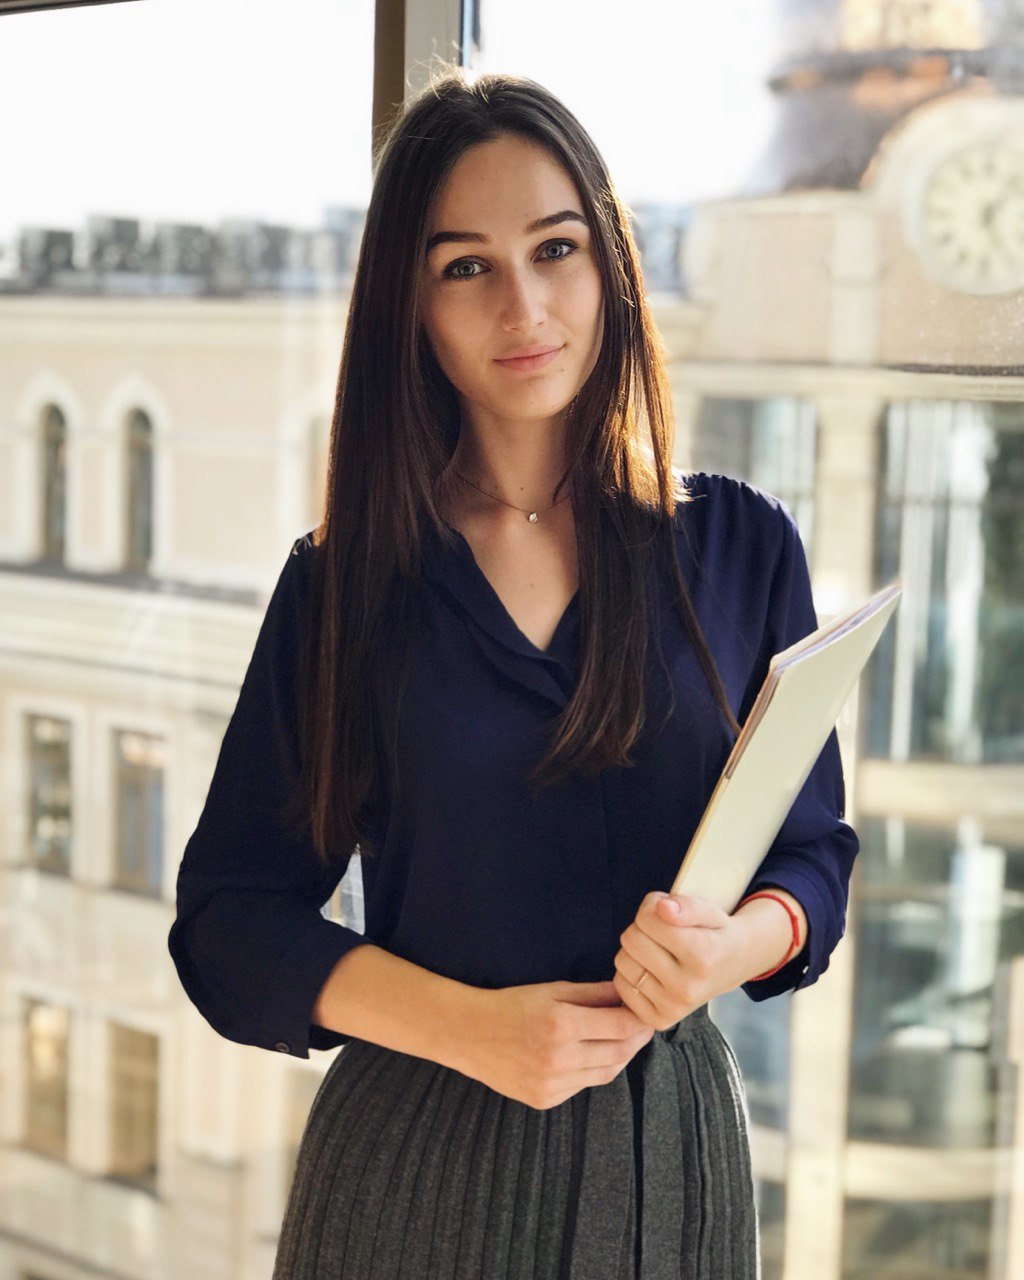
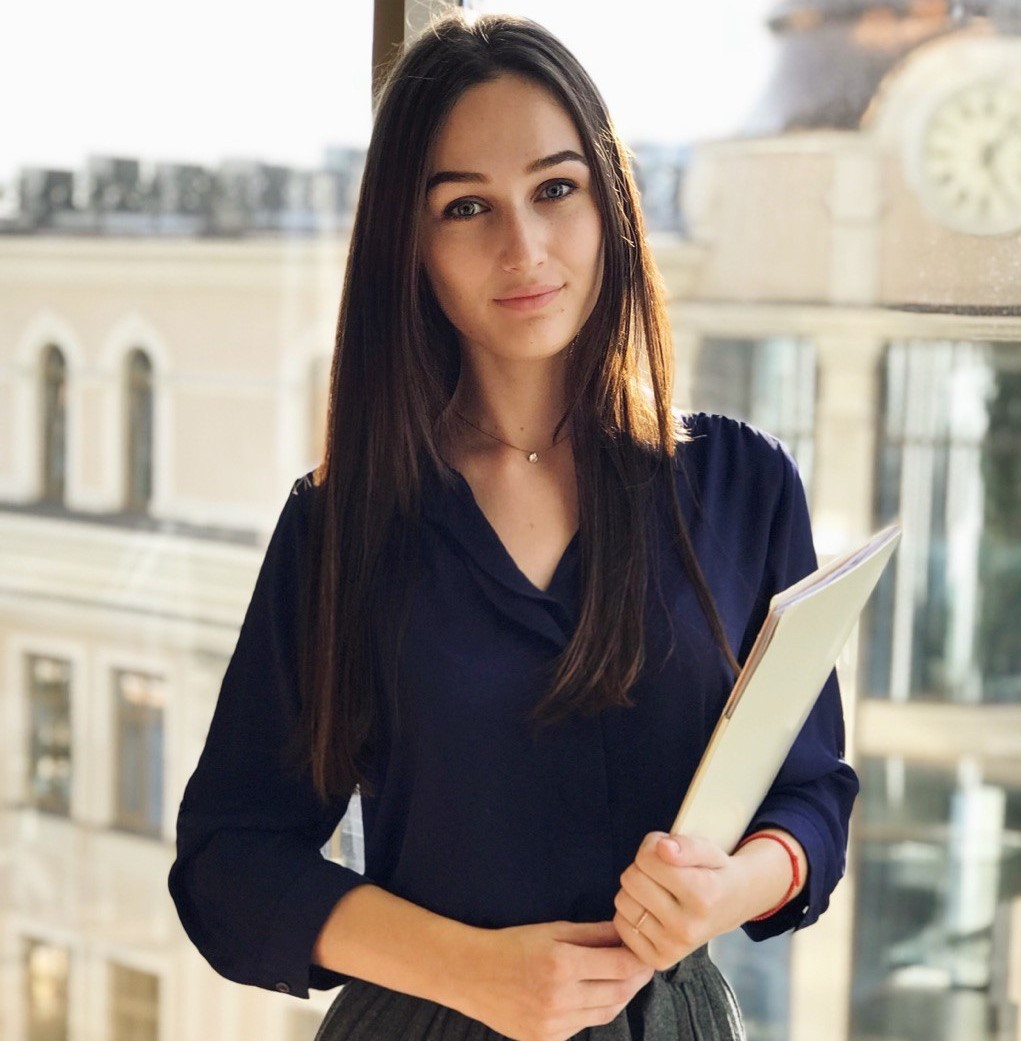
change my About page

diff --git a/about.html b/about.html
@@ -75,11 +75,11 @@
       </div>
     </nav>
     <h1 class="text-center">About me</h1>
-    <h3 class="text-center">Front-end developer from Ukraine</h3>
+    <h3 class="text-center mt-5 mb-5">Front-end developer from Ukraine</h3>
 
     <div class="container">
       <div class="row">
-        <div class="col-sm-9">
+        <div class="col-md-6">
           <p class="text-left secondary_color">
             Motivated front-end developer with a passion for creating quality
             web applications. Experience with HTML, CSS and JavaScript.
@@ -91,7 +91,7 @@
             keep focus.
           </p>
         </div>
-        <div class="col-sm-3">
+        <div class="col-md-6 d-none d-sm-block">
           <img
             src="images/Veronika.jpg"
             alt="Veronika Yermakova"
@@ -101,7 +101,7 @@
       </div>
     </div>
 
-    <h3 id="contactMe" class="text-center">📮 Contact me</h3>
+    <h3 id="contactMe" class="text-center mt-5">📮 Contact me</h3>
     <div class="container">
       <div class="row">
         <div id="contact" class="col-sm-4 pt-5 pb-5">
